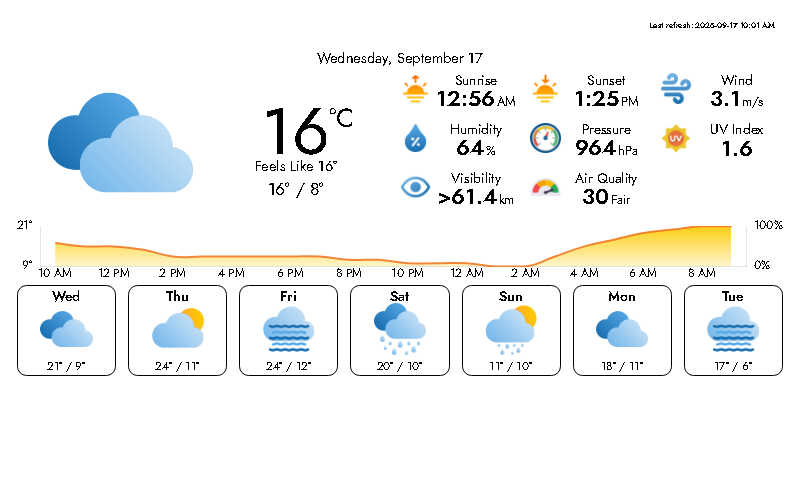
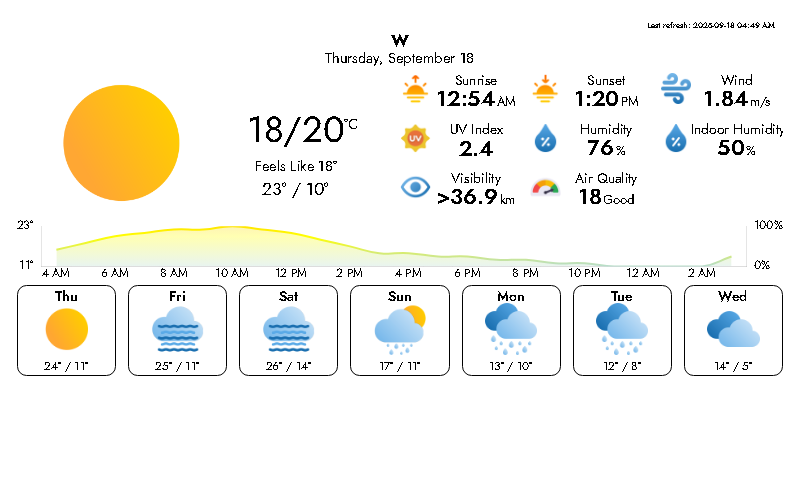
Added Graph gradient

diff --git a/src/plugins/weather_local/render/weather_local.html b/src/plugins/weather_local/render/weather_local.html
@@ -151,10 +151,18 @@
             const { ctx, chartArea } = chart;
             if (!chartArea) return null;
 
-            const gradient = ctx.createLinearGradient(0, chartArea.bottom, 0, chartArea.top);
-            gradient.addColorStop((10 - minTemp) / (maxTemp - minTemp), 'lightblue');
-            gradient.addColorStop((20 - minTemp) / (maxTemp - minTemp), 'yellow');
-            gradient.addColorStop((30 - minTemp) / (maxTemp - minTemp), 'orange');
+            const tempSpan = maxTemp - minTemp;
+            const AreaSpan = chartArea.top - chartArea.bottom;
+
+            const heightPerTemp = AreaSpan / tempSpan;
+
+            const chartBottom = chartArea.bottom - ((minTemp - 10) * heightPerTemp)
+            const chartTop = chartArea.top + ((30 - maxTemp) * heightPerTemp)
+
+            const gradient = ctx.createLinearGradient(0, chartBottom, 0, chartTop);
+            gradient.addColorStop(0, 'lightblue');
+            gradient.addColorStop(0.5, 'yellow');
+            gradient.addColorStop(1, 'orange');
             return gradient;
           },
           backgroundColor: (context) => {
@@ -162,10 +170,18 @@
             const { ctx, chartArea } = chart;
             if (!chartArea) return null;
 
-            const gradient = ctx.createLinearGradient(0, chartArea.bottom, 0, chartArea.top);
-            gradient.addColorStop((10 - minTemp) / (maxTemp - minTemp), 'rgba(173, 216, 230, 0.3)');
-            gradient.addColorStop((20 - minTemp) / (maxTemp - minTemp), 'rgba(255, 255, 0, 0.3)');
-            gradient.addColorStop((30 - minTemp) / (maxTemp - minTemp), 'rgba(241, 122, 36, 0.3)');
+            const tempSpan = maxTemp - minTemp;
+            const AreaSpan = chartArea.top - chartArea.bottom;
+
+            const heightPerTemp = AreaSpan / tempSpan;
+
+            const chartBottom = chartArea.bottom - ((minTemp - 10) * heightPerTemp)
+            const chartTop = chartArea.top + ((30 - maxTemp) * heightPerTemp)
+
+            const gradient = ctx.createLinearGradient(0, chartBottom, 0, chartTop);
+            gradient.addColorStop(0, 'rgba(173, 216, 230, 0.3)');
+            gradient.addColorStop(0.5, 'rgba(255, 255, 0, 0.3)');
+            gradient.addColorStop(1, 'rgba(241, 122, 36, 0.3)');
             return gradient;
           },
           fill: true //Enable filling under Graph
@@ -270,16 +286,6 @@
     chart.update();
 
     // Now, after the chart is created, we can access the scales
-    const gradientStart = chart.scales['y'].getPixelForValue(maxTemp); // Max temperature
-    const gradientEnd = chart.scales['y'].getPixelForValue(minTemp);   // Min temperature
-
-    // Create gradient based on y-axis values
-    const tempGradient = ctx.createLinearGradient(0, gradientStart, 0, gradientEnd+10);
-    tempGradient.addColorStop(0, 'rgba(252,204,5, 0.95)'); // Top of the gradient (max temperature)
-    tempGradient.addColorStop(1, 'rgba(252,204,5, 0.01)'); // Bottom of the gradient (min temperature)
-
-    // Update the chart to apply the gradient
-    chart.data.datasets[0].backgroundColor = tempGradient;
 
     // Create gradient based on y-axis values
     const precipitationGradient = ctx.createLinearGradient(0, gradientStart, 0, gradientEnd);

diff --git a/src/plugins/weather_local/render/weather_local.css b/src/plugins/weather_local/render/weather_local.css
@@ -146,6 +146,7 @@
   font-size: min(32cqh, 15cqi);
   text-align: center;
   font-weight: lighter;
+  white-space: nowrap;
   height: 30%
 }
 

diff --git a/src/utils/image_utils.py b/src/utils/image_utils.py
@@ -7,6 +7,8 @@ import hashlib
 import tempfile
 import subprocess
 
+from config import Config
+
 logger = logging.getLogger(__name__)
 
 def get_image(image_url):
@@ -107,50 +109,53 @@ def take_screenshot(target, dimensions, timeout_ms=None):
         with tempfile.NamedTemporaryFile(suffix=".png", delete=False) as img_file:
             img_file_path = img_file.name
 
-        command = [
-            "chromium-headless-shell",
-            target,
-            "--headless",
-            f"--screenshot={img_file_path}",
-            f"--window-size={dimensions[0]},{dimensions[1]}",
-            "--disable-dev-shm-usage",
-            "--disable-gpu",
-            "--use-gl=swiftshader",
-            "--hide-scrollbars",
-            "--in-process-gpu",
-            "--js-flags=--jitless",
-            "--disable-zero-copy",
-            "--disable-gpu-memory-buffer-compositor-resources",
-            "--disable-extensions",
-            "--disable-plugins",
-            "--mute-audio",
-            "--no-sandbox"
-        ]
-        # command = [
-        #     "/Applications/Google Chrome.app/Contents/MacOS/Google Chrome",
-        #     target,
-        #     "--headless",
-        #     f"--screenshot={img_file_path}",
-        #     f"--window-size={dimensions[0]},{dimensions[1]}",
-        #     "--disable-dev-shm-usage",
-        #     "--disable-gpu",
-        #     "--use-gl=swiftshader",
-        #     "--hide-scrollbars",
-        #     "--in-process-gpu",
-        #     "--js-flags=--jitless",
-        #     "--disable-zero-copy",
-        #     "--disable-gpu-memory-buffer-compositor-resources",
-        #     "--disable-extensions",
-        #     "--disable-plugins",
-        #     "--mute-audio",
-        #     "--no-sandbox",
-        #     "--disable-canvas-aa",
-        #     "--disable-2d-canvas-clip-aa",
-        #     "--disable-font-subpixel-positioning",
-        #     "--disable-lcd-text",
-        #     "--disable-gpu-compositing",
-        #     "--disable-dithering"
-        # ]
+        if Config.DEV_MODE:
+            command = [
+                "/Applications/Google Chrome.app/Contents/MacOS/Google Chrome",
+                target,
+                "--headless",
+                f"--screenshot={img_file_path}",
+                f"--window-size={dimensions[0]},{dimensions[1]}",
+                "--disable-dev-shm-usage",
+                "--disable-gpu",
+                "--use-gl=swiftshader",
+                "--hide-scrollbars",
+                "--in-process-gpu",
+                "--js-flags=--jitless",
+                "--disable-zero-copy",
+                "--disable-gpu-memory-buffer-compositor-resources",
+                "--disable-extensions",
+                "--disable-plugins",
+                "--mute-audio",
+                "--no-sandbox"#,
+                # "--disable-canvas-aa",
+                # "--disable-2d-canvas-clip-aa",
+                # "--disable-font-subpixel-positioning",
+                # "--disable-lcd-text",
+                # "--disable-gpu-compositing",
+                # "--disable-dithering"
+            ]
+        else:
+            command = [
+                "chromium-headless-shell",
+                target,
+                "--headless",
+                f"--screenshot={img_file_path}",
+                f"--window-size={dimensions[0]},{dimensions[1]}",
+                "--disable-dev-shm-usage",
+                "--disable-gpu",
+                "--use-gl=swiftshader",
+                "--hide-scrollbars",
+                "--in-process-gpu",
+                "--js-flags=--jitless",
+                "--disable-zero-copy",
+                "--disable-gpu-memory-buffer-compositor-resources",
+                "--disable-extensions",
+                "--disable-plugins",
+                "--mute-audio",
+                "--no-sandbox"
+            ]
+        
 
         if timeout_ms:
             command.append(f"--timeout={timeout_ms}")

diff --git a/src/plugins/weather_local/weather_local.py b/src/plugins/weather_local/weather_local.py
@@ -7,13 +7,15 @@ from datetime import datetime, timezone
 import pytz
 from io import BytesIO
 import math
+from config import Config
 
-from smbus2 import SMBus
-from bme280 import BME280
+if not Config.DEV_MODE:
+    from smbus2 import SMBus
+    from bme280 import BME280
 
-# Initialise the BME280
-bus = SMBus(1)
-bme280 = BME280(i2c_dev=bus)
+    # Initialise the BME280
+    bus = SMBus(1)
+    bme280 = BME280(i2c_dev=bus)
 
 logger = logging.getLogger(__name__)
 
@@ -441,9 +443,14 @@ class Weather_local(BasePlugin):
 
     def get_sensor_data(self):
         sensor_data = {}
-        sensor_data['temperature'] = bme280.get_temperature()
-        sensor_data['pressure'] = bme280.get_pressure()
-        sensor_data['humidity'] = bme280.get_humidity()
+        if Config.DEV_MODE:
+            sensor_data['temperature'] = 20
+            sensor_data['pressure'] = 1000
+            sensor_data['humidity'] = 50
+        else:
+            sensor_data['temperature'] = bme280.get_temperature()
+            sensor_data['pressure'] = bme280.get_pressure()
+            sensor_data['humidity'] = bme280.get_humidity()
 
         return sensor_data
 

diff --git a/src/inkypi.py b/src/inkypi.py
@@ -41,11 +41,11 @@ args = parser.parse_args()
 # Set development mode settings
 if args.dev:
     Config.config_file = os.path.join(Config.BASE_DIR, "config", "device_dev.json")
-    DEV_MODE = True
+    Config.DEV_MODE = True
     PORT = 8080
     logger.info("Starting InkyPi in DEVELOPMENT mode on port 8080")
 else:
-    DEV_MODE = False
+    Config.DEV_MODE = False
     PORT = 80
     logger.info("Starting InkyPi in PRODUCTION mode on port 80")
 logging.getLogger('waitress.queue').setLevel(logging.ERROR)
@@ -93,7 +93,7 @@ if __name__ == '__main__':
         app.secret_key = str(random.randint(100000,999999))
         
         # Get local IP address for display (only in dev mode when running on non-Pi)
-        if DEV_MODE:
+        if Config.DEV_MODE:
             import socket
             try:
                 s = socket.socket(socket.AF_INET, socket.SOCK_DGRAM)

diff --git a/src/config.py b/src/config.py
@@ -19,6 +19,8 @@ class Config:
     # Directory path for storing plugin instance images
     plugin_image_dir = os.path.join(BASE_DIR, "static", "images", "plugins")
 
+    DEV_MODE = False
+
     def __init__(self):
         self.config = self.read_config()
         self.plugins_list = self.read_plugins_list()
